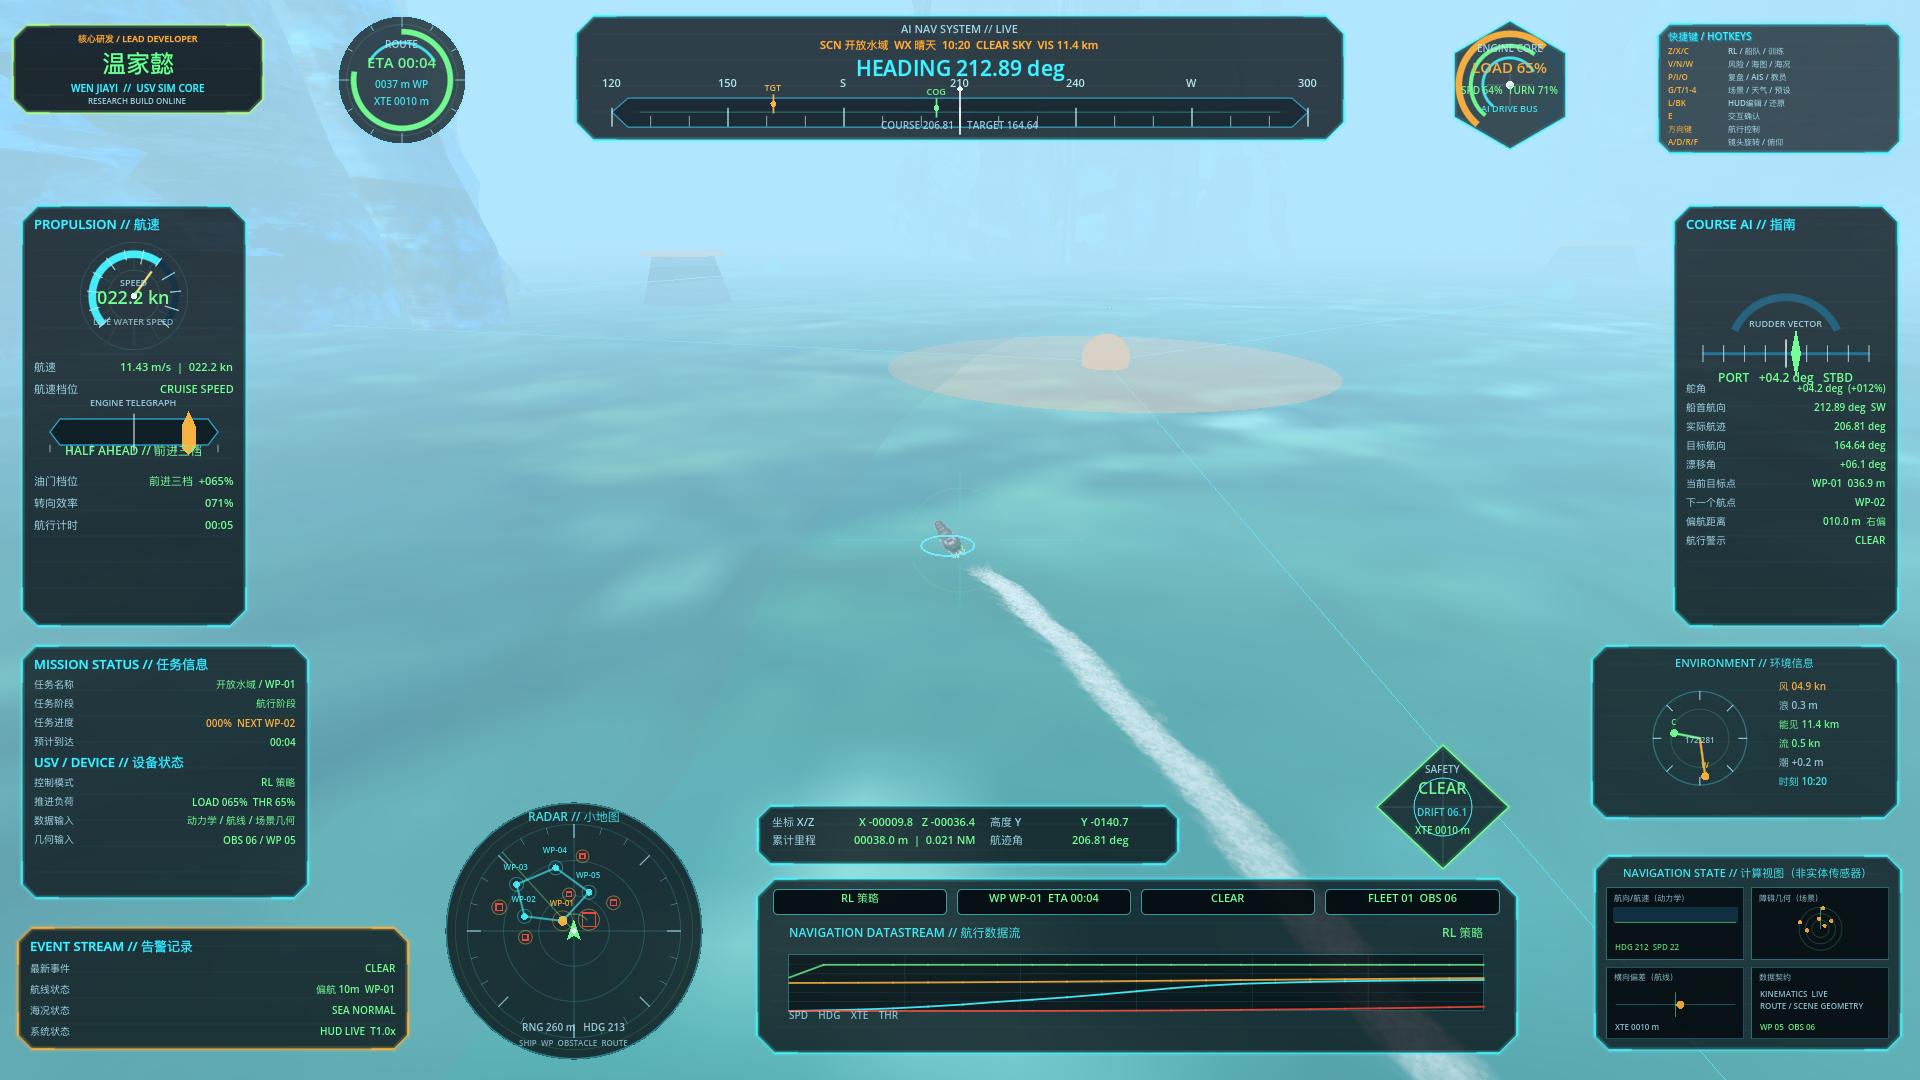
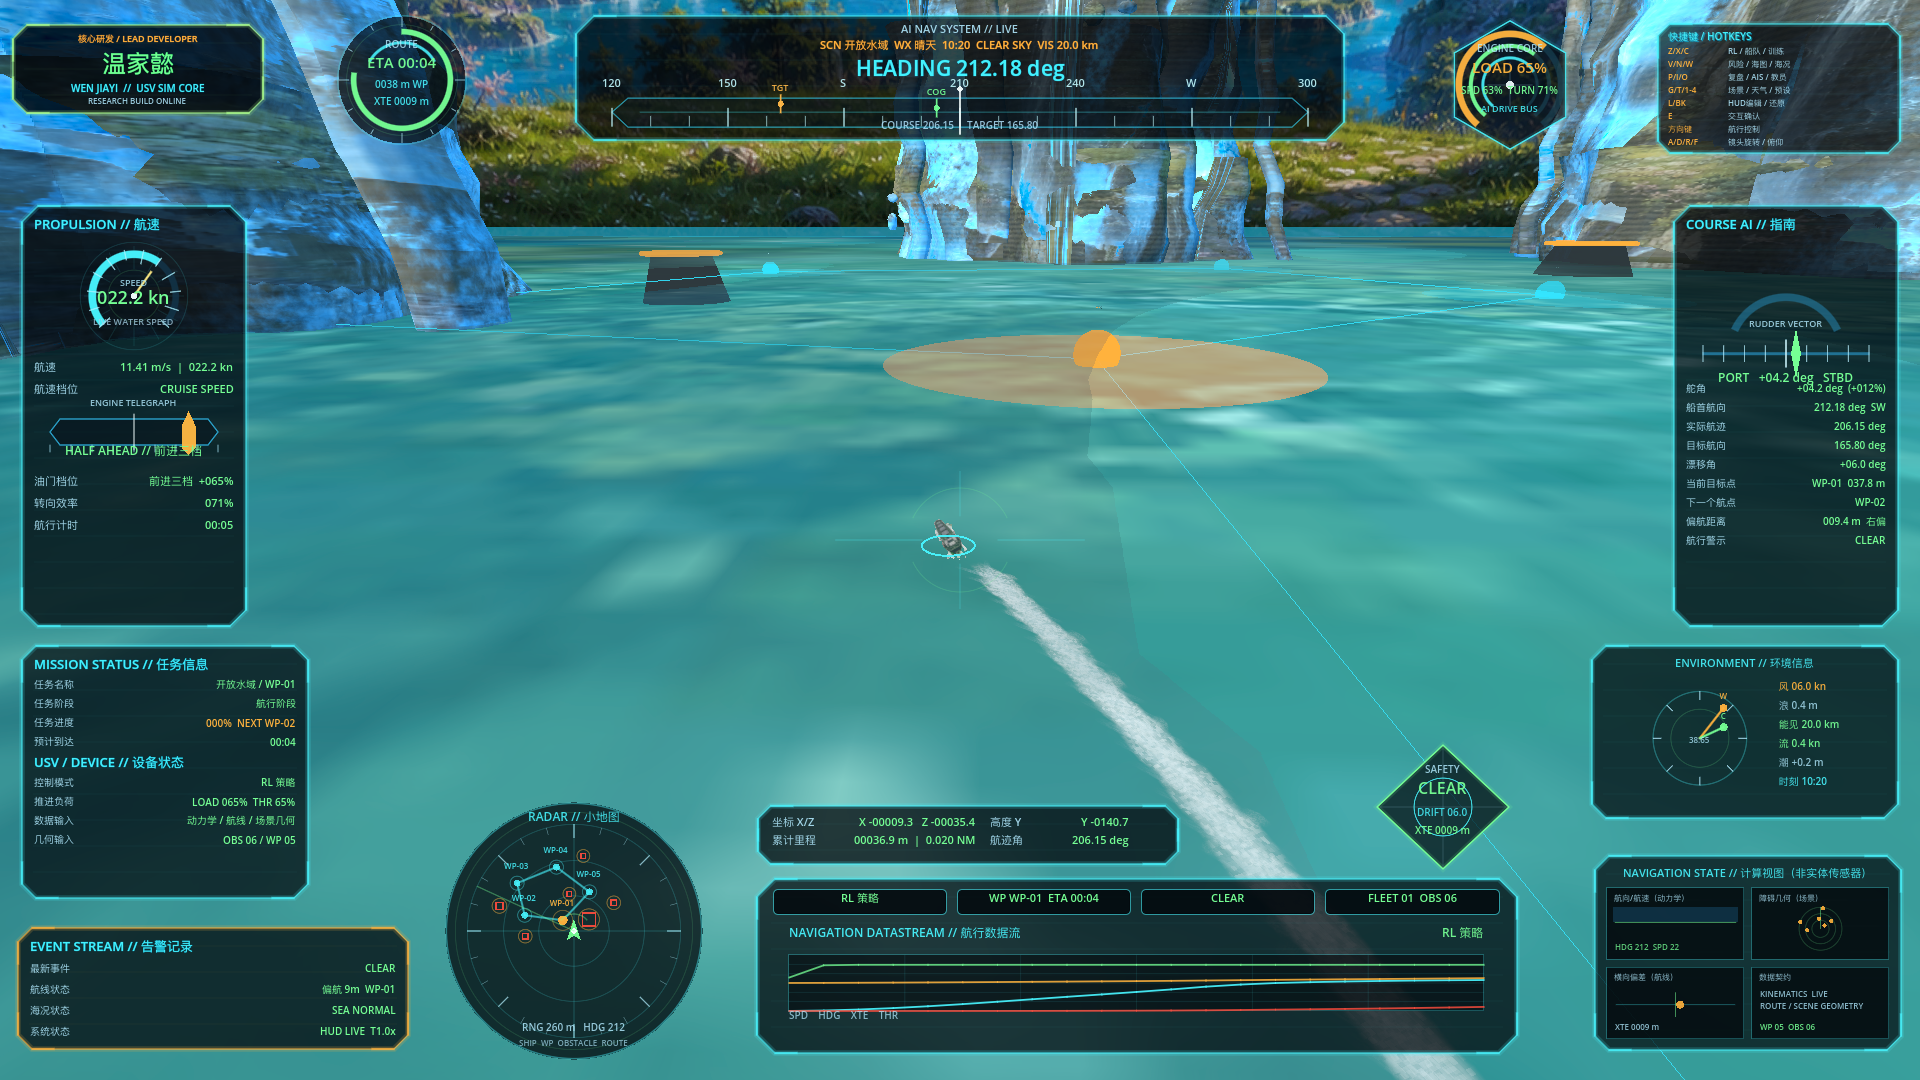
Replace README screenshots with clear-sky evidence set

diff --git a/README.md b/README.md
@@ -37,15 +37,6 @@
   <img src="docs/screenshots/01-port-ai-evidence-center.png" alt="同屏展示训练数据、十算法矩阵、小懿训练顾问和模块按钮联动" width="100%" />
 </p>
 
-<p align="center">
-  <img src="docs/screenshots/02-training-center-ten-methods.png" alt="45维港口训练中心与十算法后端入口" width="49%" />
-  <img src="docs/screenshots/03-xiaoyi-system-assistant.png" alt="使用既有小懿Q版形象的全系统助手" width="49%" />
-</p>
-
-<p align="center">
-  <img src="docs/screenshots/04-navigation-runtime.png" alt="主船真实油门舵角航行、尾迹、航线和遥测同屏" width="100%" />
-</p>
-
 证据中心不是静态海报：按钮分别调用训练中心、航线规划/风险/海况、AIS、结果复盘和小懿全系统助手；自动验收同时验证对应快捷键与主船人工/后端控制航行。
 
 ## 系统价值 / Engineering value
@@ -62,6 +53,11 @@ Godot 4.7 owns vessel control, port geometry, risk envelopes, and 3D evidence re
 | 回放一致性 / Replay consistency | <strong>5/5</strong> 回放、<strong>1,723</strong> 采样点<br><sub><strong>5/5</strong> replays and <strong>1,723</strong> samples</sub> | 后端指标、逐场CSV与Godot轨迹相互校验<br><sub>Backend metrics, per-scenario CSV files, and Godot trajectories cross-check one another.</sub> |
 | 证据门禁 / Evidence gate | <strong>28/28</strong> 检查通过<br><sub><strong>28/28</strong> checks passed</sub> | 数据、奖励、模型、轨迹与源码哈希绑定<br><sub>Dataset, reward, model, trajectory, and source hashes are bound together.</sub> |
 | 安全准入 / Safety admission | 五方法均被保守门禁拒绝<br><sub>All five methods rejected by the conservative gate</sub> | 证明系统会暴露安全裕度缺口，而非美化零碰撞<br><sub>The platform exposes safety-margin deficiencies instead of polishing a zero-collision result.</sub> |
+
+<p align="center">
+  <img src="docs/screenshots/04-navigation-runtime.png" alt="晴天20公里能见度下的主船油门舵角航行、尾迹、航线和遥测" width="100%" />
+  <br /><sub>晴天航行运行态：真实油门/舵角输入、航迹尾流、目标航线、雷达、风险状态和遥测同屏。</sub>
+</p>
 
 > [!IMPORTANT]
 > 当前证据证明的是仿真平台完整性、算法评测能力和失效安全门禁，不是实船海试、COLREGs认证或商业航行许可。公开环境强迫、仿真动力学与真实传感/执行数据始终分层标注。
@@ -85,6 +81,11 @@ The v2 benchmark adds a `ship_port_dataset_v3` contract and a 45-dimensional por
 | 任务字段覆盖 | 船长/船宽/吃水/风浪流/能见度/潮位/速度代理均 **100%** |
 | 算法 | **7 RL + 3 control** |
 
+<p align="center">
+  <img src="docs/screenshots/02-training-center-ten-methods.png" alt="晴天场景中的45维港口训练中心与十算法后端入口" width="100%" />
+  <br /><sub>训练中心：v2 NOAA AIS + ENC 数据档、45 维环境和 7 RL + 3 控制后端在同一真实入口中选择。</sub>
+</p>
+
 | 方法 | 类型 | 动作空间 | 实现 |
 |---|---|---|---|
 | PPO / SAC / TD3 | RL | 连续油门 + 舵角 | Stable-Baselines3 |
@@ -96,6 +97,11 @@ The v2 benchmark adds a `ship_port_dataset_v3` contract and a 45-dimensional por
 | MPC | 控制 | 连续油门 + 舵角 | 8 步滚动时域低阶运动学优化 |
 
 45 维观测覆盖相对目标与航向、速度/油门/舵角、障碍扇区、闭合速度、TCPA/DCPA、风浪流、边界/XTE，以及能见度、潮位、水深、UKC、航道、速度余量、船型尺度、会遇类型、让路责任和交通密度。目标函数同时记录推进、航向、经济航速、碰撞、搁浅、净距、航道、超速与保守 COLREG 会遇代理。完整字段、适配步骤和未上线因素见 [港口替换与上线门禁](docs/PORT_ADAPTER_GUIDE.md)。
+
+<p align="center">
+  <img src="docs/screenshots/05-algorithm-environment-settings.png" alt="算法优化器、采样器、探索策略与船舶环境安全参数设置" width="100%" />
+  <br /><sub>算法与环境交互设置：优化器、采样器、探索预算、船体/悬岩净距、感知范围和动态交通参数均映射到真实后端配置。</sub>
+</p>
 
 > [!NOTE]
 > v2 的 2,000 步/算法运行是“公开数据与全算法执行覆盖”证据，不宣称七个 RL 已收敛。历史 AIS 不是实时交通，ENC Direct 不是船载认证海图；VTS、引航/拖轮/泊位、实时传感、船型标定和认证控制链未验证时，`live_control_ready=false`。
@@ -210,6 +216,11 @@ Open the project in Godot:
 
 运行主场景后按 `C` 打开训练页。“算法/环境设置”可配置船体半径、悬岩净距、感知范围、碰撞时间窗、域随机化和生成交通船；“预览安全边界”会把有效包络直接画回场景。选择算法和预算后点击“启动训练”，完成后再点击“运行测试集并渲染”。<br>
 Run the main scene and press `C` to open the training page. “Algorithm / Environment Settings” configures hull radius, overhang clearance, sensing range, collision horizon, domain randomization, and generated traffic. “Preview Safety Boundary” draws the effective envelope into the scene. Select an algorithm and budget, start training, and only after completion run the held-out test set with rendering.
+
+<p align="center">
+  <img src="docs/screenshots/03-xiaoyi-system-assistant.png" alt="晴天场景中的小懿全系统助手与场景、天气、事故、障碍和报告按钮" width="100%" />
+  <br /><sub>小懿全系统助手：场景、天气、事故、临时障碍、播放速度、重置与报告按钮均调用实际系统模块。</sub>
+</p>
 
 ### 前端按钮与快捷键 / UI linkage and hotkeys
 
